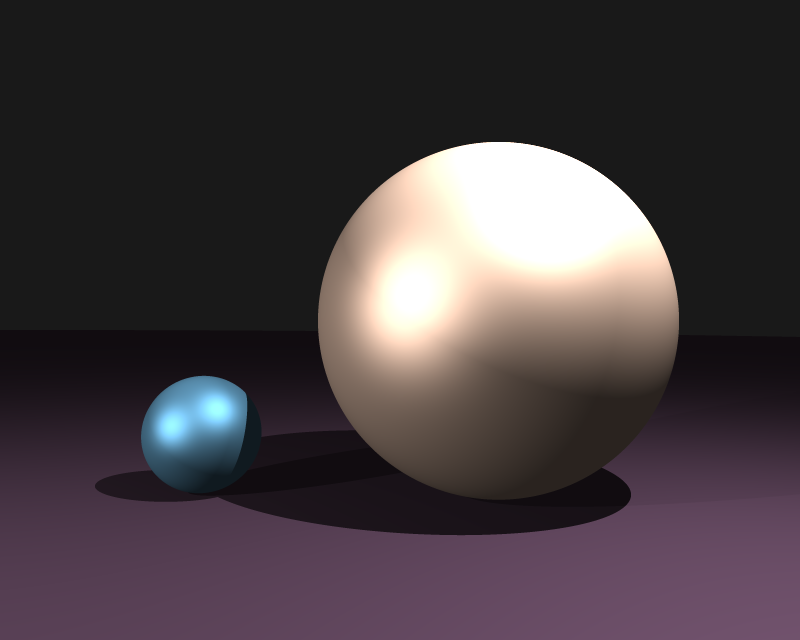
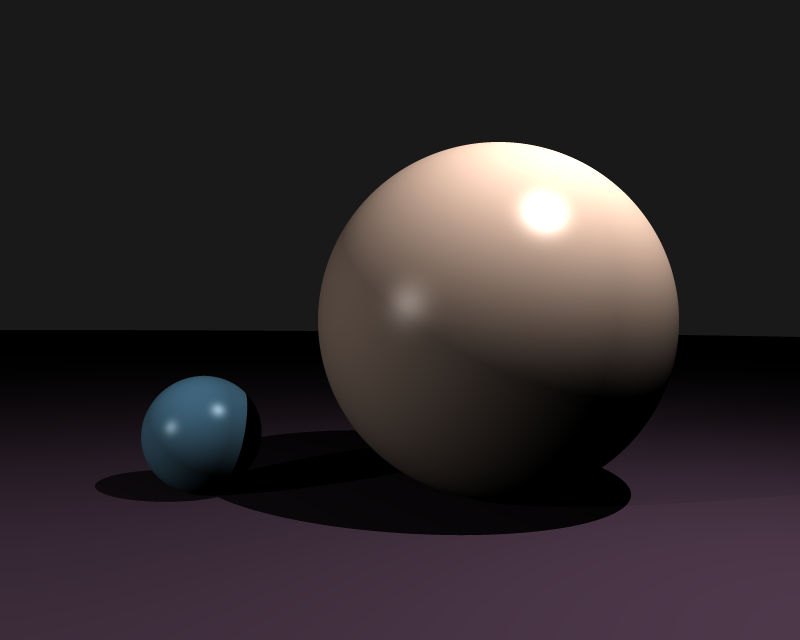
Fixed rendering equation.

diff --git a/Raytracer/Renderer.cpp b/Raytracer/Renderer.cpp
@@ -17,12 +17,9 @@ void Renderer::Render()
 			printf("50%%\n");
 		else if (f1 == (int) ((float) (2 * cam.film->height) / 3))
 			printf("75%%\n");
-		else if (f1 == cam.film->height)
-			printf("100%%\n");
 	}
-	printf("Saving picture.\n");
+	printf("100%%\n");
 	cam.film->SaveImage("Image 1.png");
-	printf("Finished saving picture.\n");
 	cam.film->~Film();
 }
 
@@ -65,15 +62,15 @@ vec3 Renderer::Shading(Ray& ray, IntersectInfo info)
 			// Diffuse
 			float dotProd = max(0.f, dot(info.surfaceNormal, rayToLight.dir));
 			vec3 diffuseTerm = info.material.diffuse * light.IntensAtPoint(info.surfacePoint)* dotProd;
-			totalColor += diffuseTerm;
+			totalColor += diffuseTerm * info.material.diffuseCoeff;
 
 			// Specular
 			vec3 pointToView = normalize(cam.pos - info.surfacePoint);
 			vec3 halfVec = normalize(pointToView + rayToLight.dir);
-
 			float specAngle = max(dot(halfVec, info.surfaceNormal), 0.f);
-			float specular = pow(specAngle, info.material.shininess);
-			totalColor += info.material.diffuse * specular;
+
+			totalColor += light.color * light.IntensAtPoint(info.surfacePoint)
+				*info.material.specularCoeff * pow(specAngle, info.material.specularPowFactor);
 		}
 	}
 

diff --git a/Raytracer/main.cpp b/Raytracer/main.cpp
@@ -15,17 +15,17 @@ int main(int argc, char* argv []) {
 
 	Scene scene;
 	scene.bgColor = vec3(0.1f);
-	scene.ambientIntense = 0.2f;
+	scene.ambientIntense = 0;
 	// Test objs
 	scene.objs.push_back(Primitive(
 		Sphere(vec3(0.8, 1.5, 0), 1.5)
-		, Material(vec3(210 / 255.f, 178 / 255.f, 158 / 255.f), 1, 16)));
+		, Material(vec3(210 / 255.f, 178 / 255.f, 158 / 255.f))));
 	scene.objs.push_back(Primitive(
 		Sphere(vec3(-1.7, 0.5, 0), 0.5)
-		, Material(vec3(83 / 255.f, 132 / 255.f, 162 / 255.f), 1, 16)));
+		, Material(vec3(83 / 255.f, 132 / 255.f, 162 / 255.f))));
 	scene.objs.push_back(Primitive(
 		Sphere(vec3(0, -10000, 0), 10000)
-		, Material(vec3(85 / 255.f, 62 / 255.f, 82 / 255.f), 1, 16)));
+		, Material(vec3(85 / 255.f, 62 / 255.f, 82 / 255.f))));
 
 	// Test lights
 	scene.lights.push_back(Light(vec3(3, 7, 3), vec3(1), 50));

diff --git a/Raytracer/Material.h b/Raytracer/Material.h
@@ -7,12 +7,16 @@ class Material
 {
 public:
 
-	Material(vec3 diffuse = vec3(1, 1, 1), float diffuseFac = 1, float shininess = 1)
-		:diffuse(diffuse), diffuseFac(diffuseFac), shininess(shininess)
+	Material(vec3 diffuse = vec3(1, 1, 1), float diffuseCoeff = 0.85
+		, float specularPowFactor = 128, float specularCoeff = 0.5)
+		:diffuse(diffuse), diffuseCoeff(diffuseCoeff), specularPowFactor(specularPowFactor)
+		, specularCoeff(specularCoeff)
 	{}
 	vec3 diffuse;
-	float diffuseFac;
-	float shininess;
+	float diffuseCoeff;
+	float specularPowFactor; // pow fac range from 1 to infinite
+	float specularCoeff; // range from 0 to 1
+	
 };
 
 #endif
